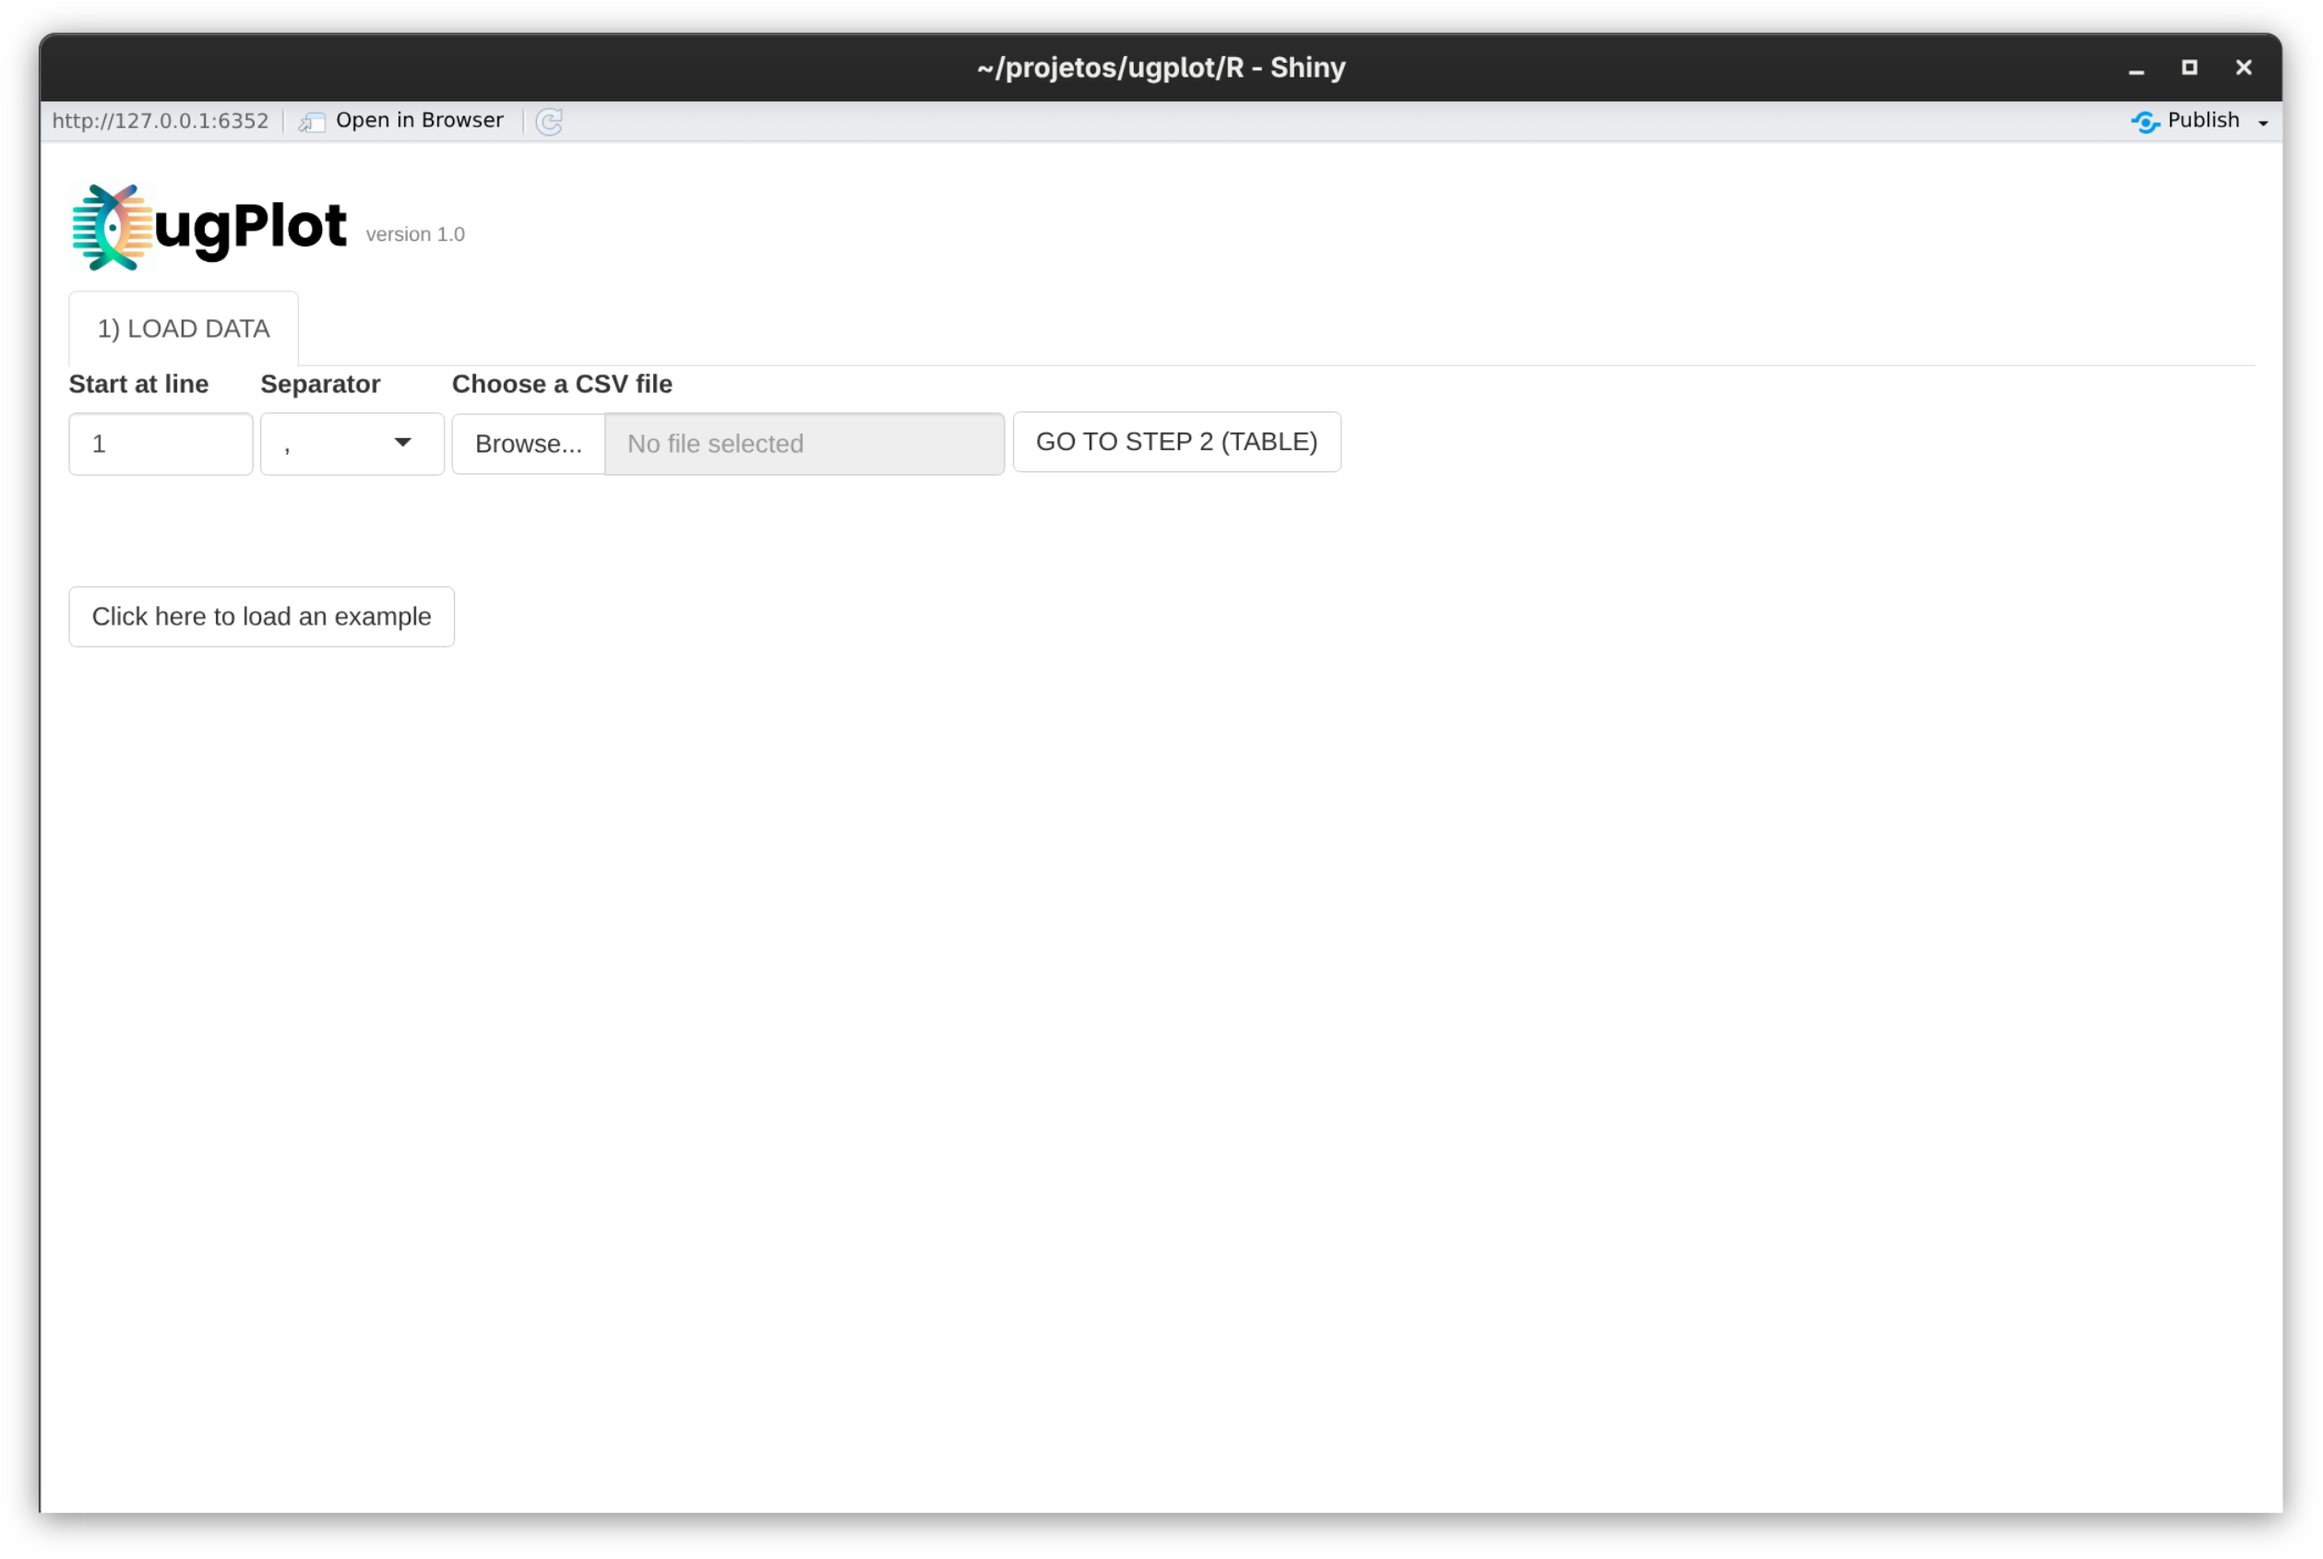
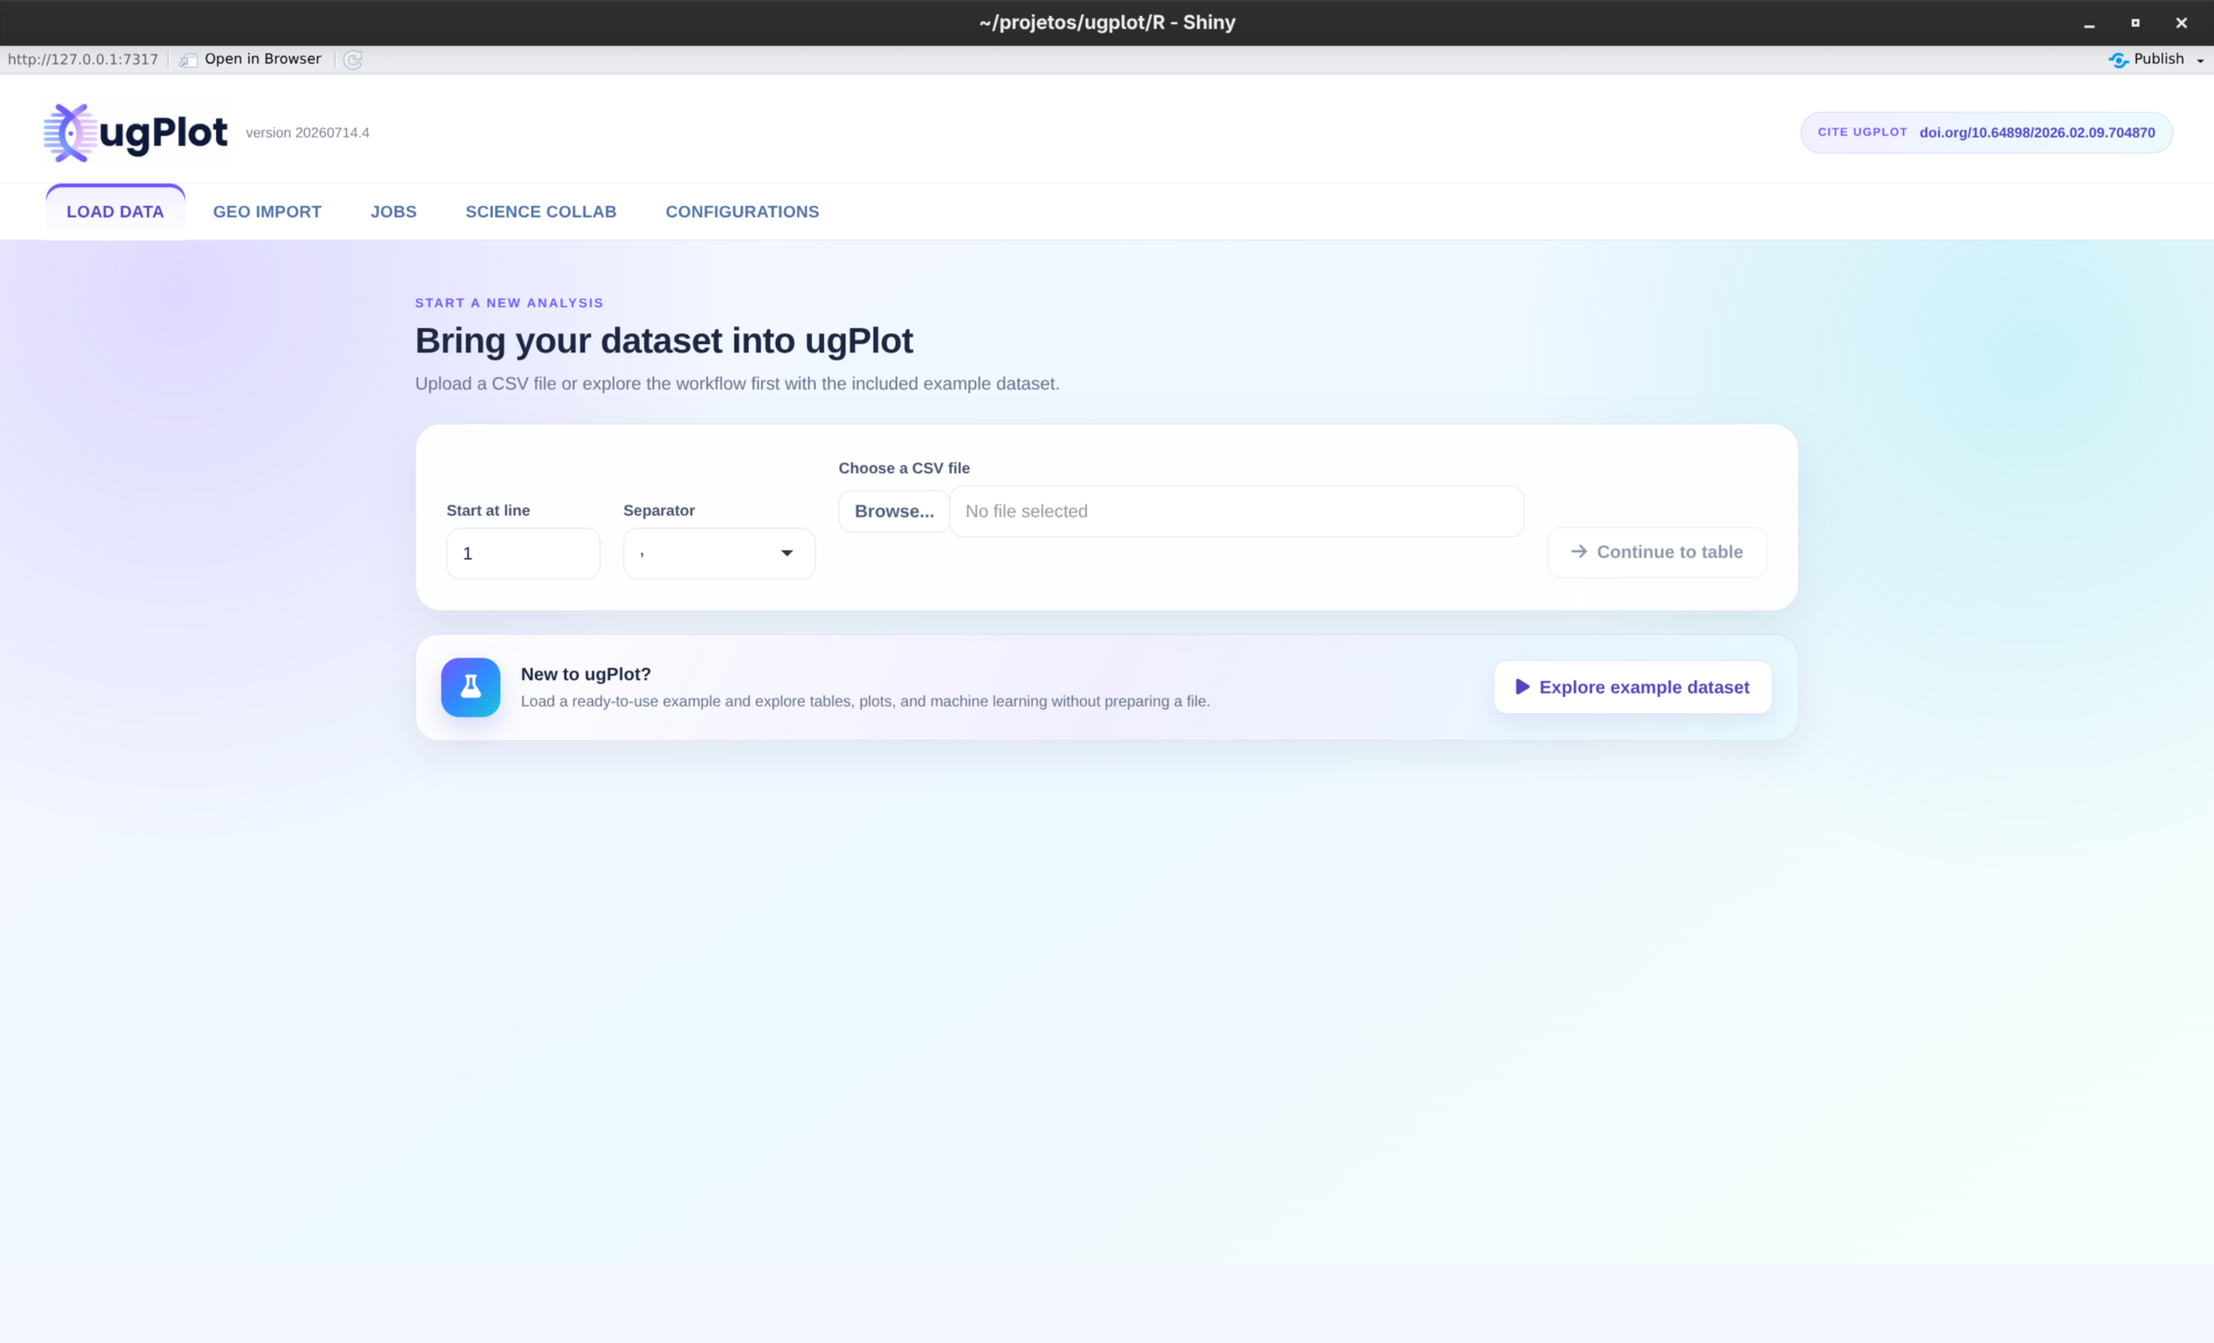
Update interface overview screenshot

diff --git a/README.md b/README.md
@@ -157,7 +157,7 @@ Treat ugPlot as a guided workbench: each tab helps answer a specific question be
 
 ## 0) Interface overview
 
-![doc1 - initial screen](man/img/doc1.png)
+![ugPlot LOAD DATA opening screen](man/img/doc1.png)
 
 The workflow is linear:
 
